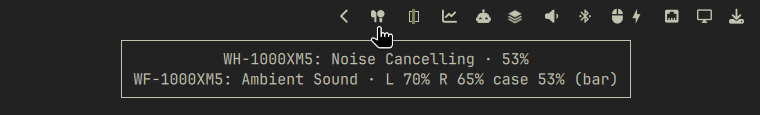
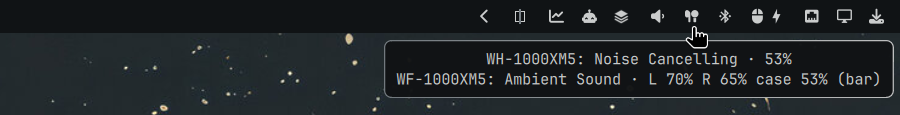
Prepare the listing for the Omarchy plugin marketplace
Add a root preview.png, put the removal commands and the dependencies in the
README as the marketplace asks, and retake the screenshots in the Solitude
theme.

diff --git a/README.ru.md b/README.ru.md
@@ -19,12 +19,23 @@ omarchy plugin add https://github.com/enxy0/omarchy-sony-xm5 --enable
 ```
 
 Потом нажмите на иконку наушников в баре и затем **Install**. Это соберёт и
-запустит небольшой фоновый сервис от вашего пользователя; sudo спросит пароль,
-только если не хватает пакетов для сборки.
+запустит небольшой фоновый сервис от вашего пользователя. Ему нужны BlueZ и
+D-Bus, они в Omarchy уже есть, а недостающие пакеты для сборки (`cmake`,
+`ninja`, `gcc`, `bluez-libs`) ставятся через pacman; только тогда sudo
+спросит пароль.
 
 Обновление: `omarchy plugin update io.github.enxy0.sonyxm5`, панель сама
-предложит **Update**, если сервис тоже нужно обновить. Удаление описано в
-[docs/install.md](docs/install.md) (на английском).
+предложит **Update**, если сервис тоже нужно обновить.
+
+Удаление:
+
+```bash
+~/.config/omarchy/plugins/io.github.enxy0.sonyxm5/setup --uninstall
+omarchy plugin remove io.github.enxy0.sonyxm5
+```
+
+Подробнее о setup, удалении и пакете Arch: [docs/install.md](docs/install.md)
+(на английском).
 
 ## Использование
 

diff --git a/README.md b/README.md
@@ -19,12 +19,21 @@ omarchy plugin add https://github.com/enxy0/omarchy-sony-xm5 --enable
 ```
 
 Then click the headphones icon in the bar and press **Install**. It builds and
-starts a small background service for your user; sudo asks for a password
-only if build packages are missing.
+starts a small background service for your user. It needs BlueZ and D-Bus,
+which Omarchy has, and installs the missing build packages (`cmake`, `ninja`,
+`gcc`, `bluez-libs`) with pacman; only then does sudo ask for a password.
 
 To update, run `omarchy plugin update io.github.enxy0.sonyxm5`; the panel
-offers **Update** if the service needs it too. To remove, see
-[docs/install.md](docs/install.md).
+offers **Update** if the service needs it too.
+
+To remove:
+
+```bash
+~/.config/omarchy/plugins/io.github.enxy0.sonyxm5/setup --uninstall
+omarchy plugin remove io.github.enxy0.sonyxm5
+```
+
+More on setup, removal and the Arch package: [docs/install.md](docs/install.md).
 
 ## Use
 
